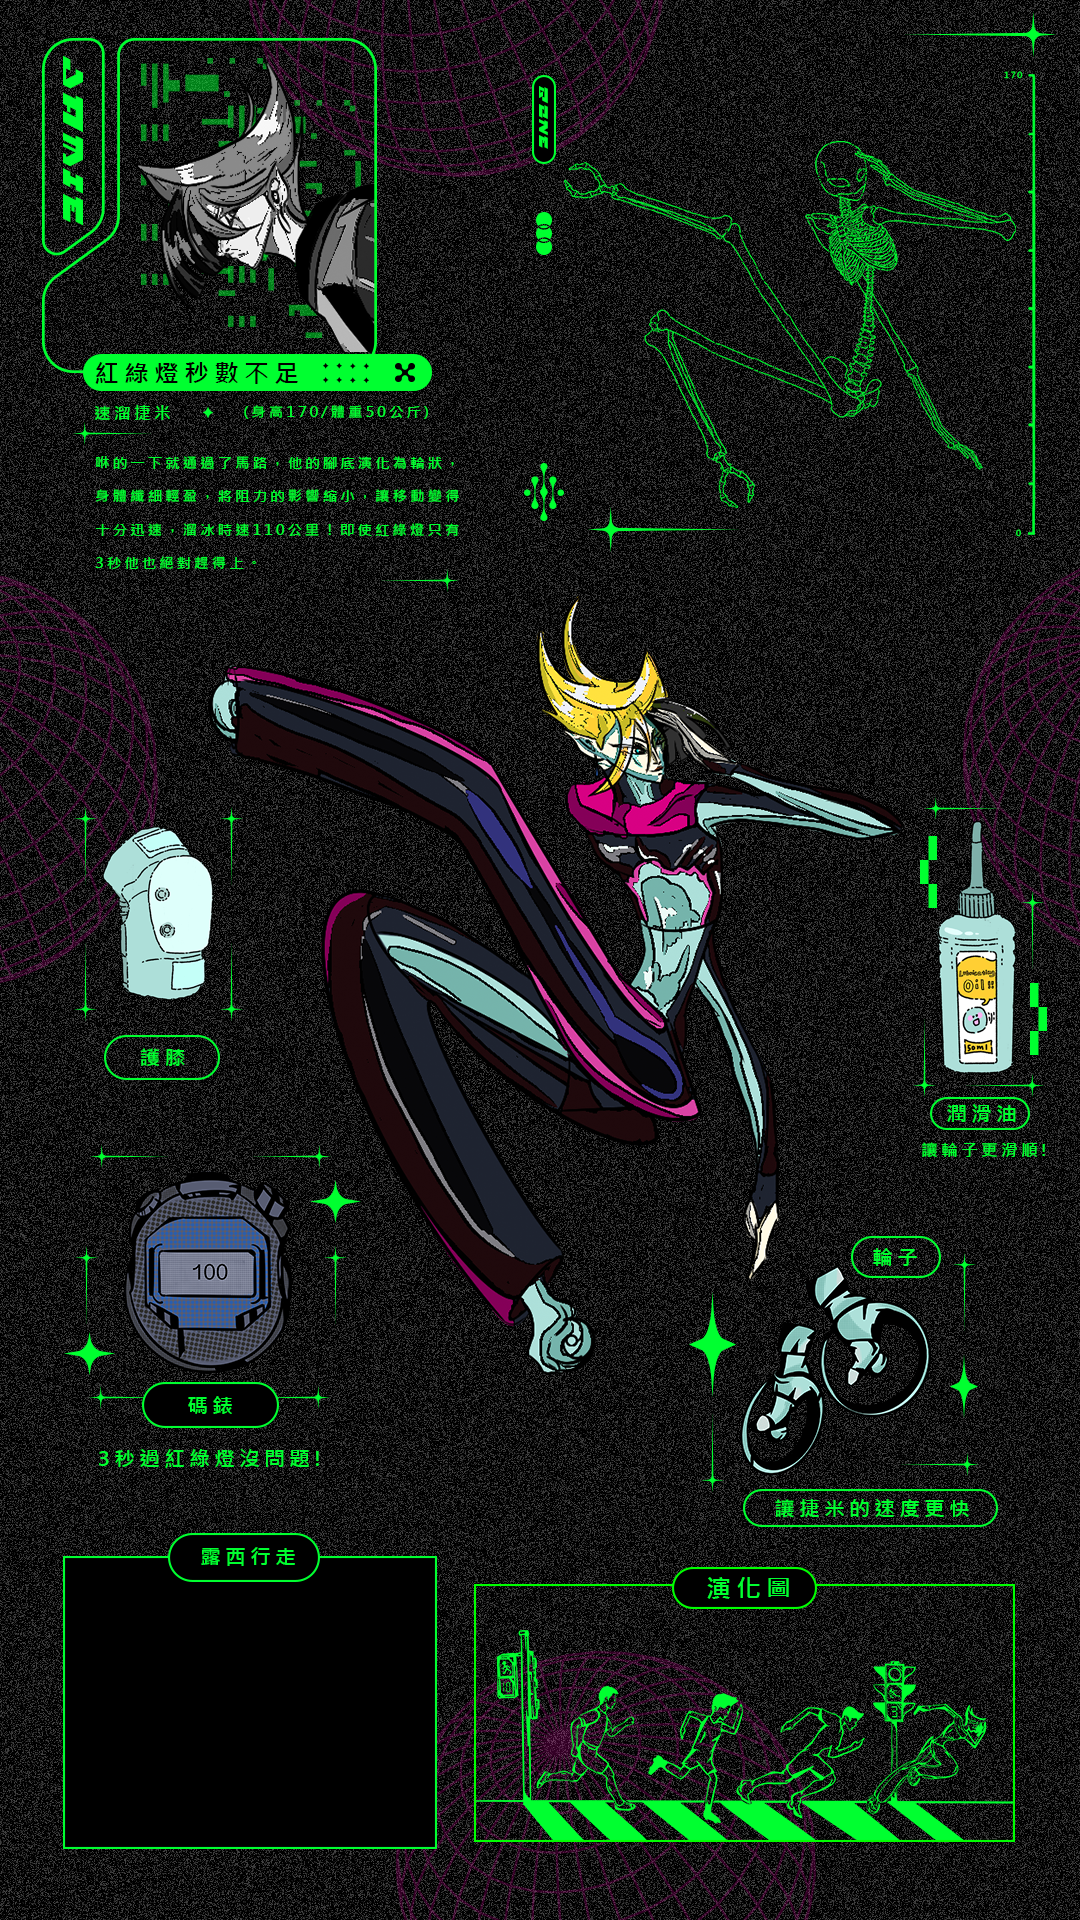
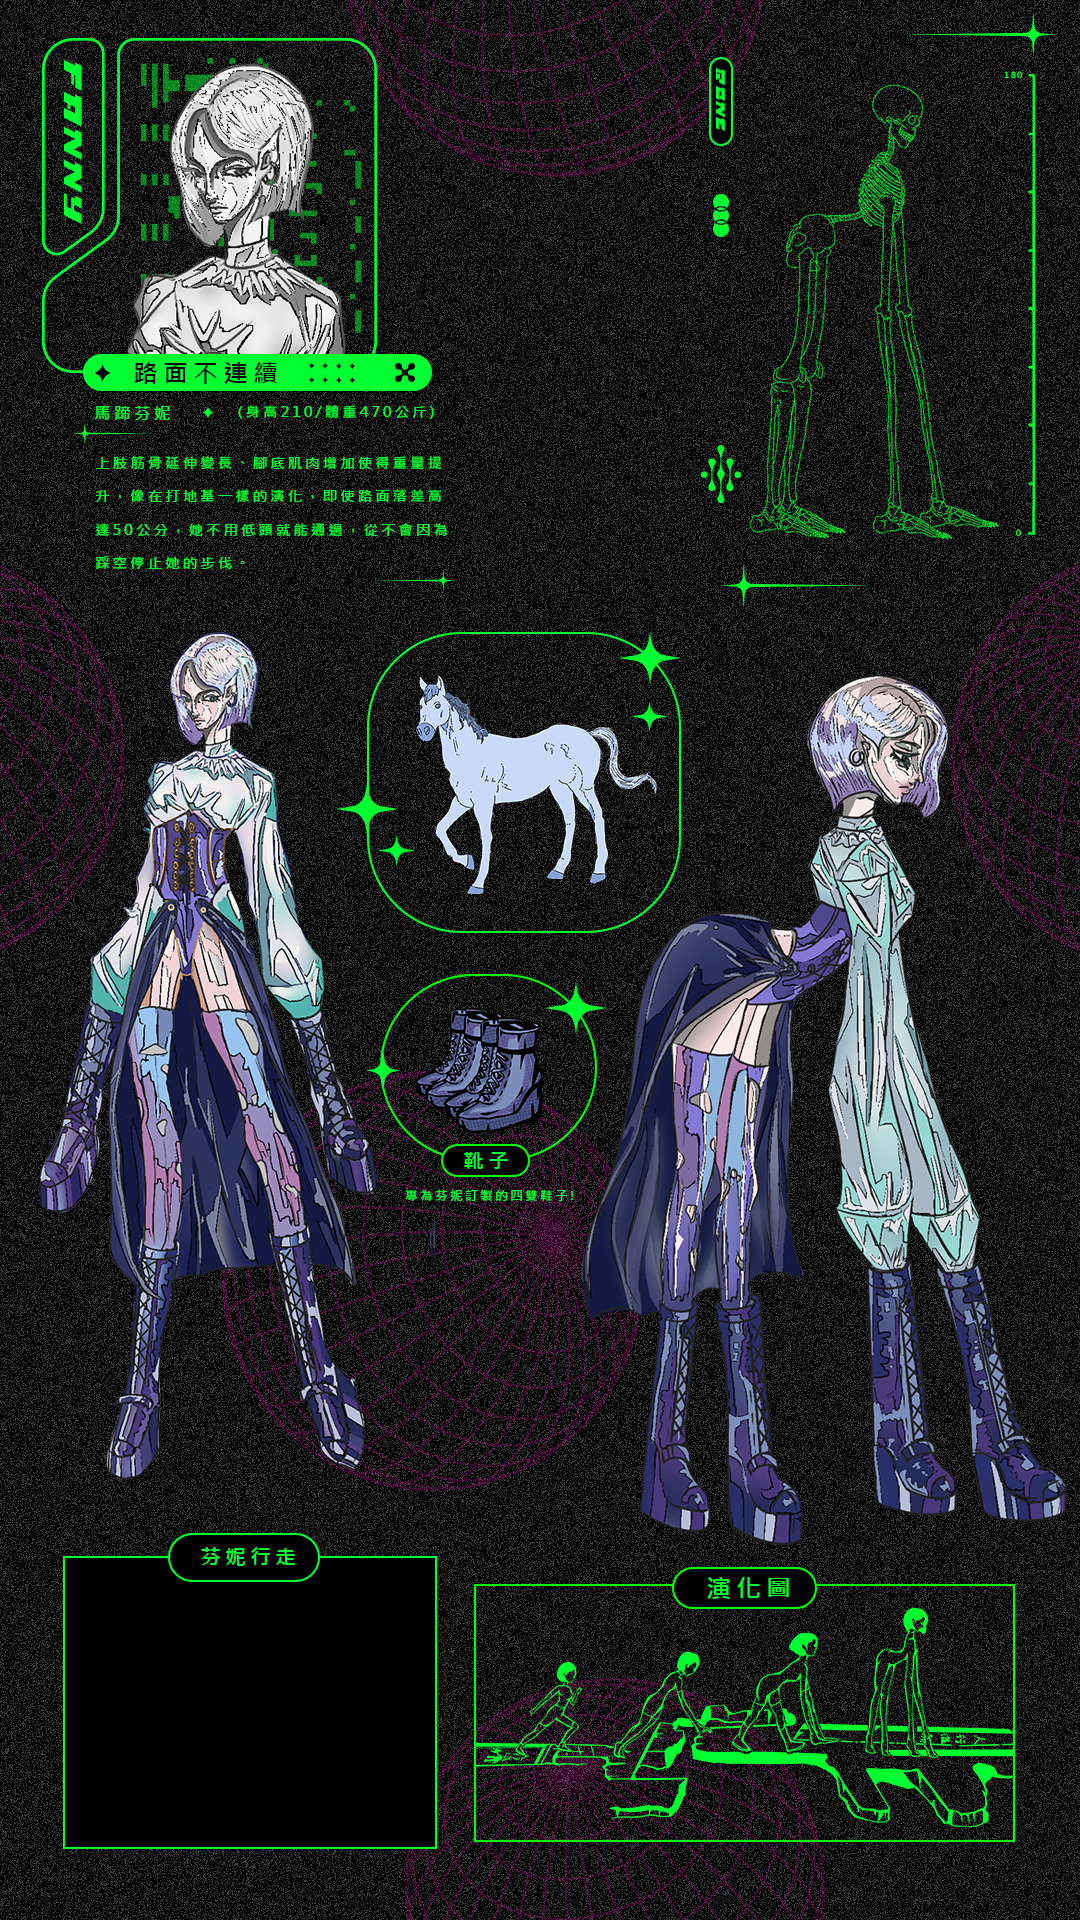
feat:新增角色頁 part4

diff --git a/src/app/layouts/header/header.component.html b/src/app/layouts/header/header.component.html
@@ -18,25 +18,25 @@
       <img class="menu-bottom" src="../../../assets/images/menu-bottom.png">
     </div>
     <div class="dropdown-menu-text sub-text">
-      <a href="/characters">四足露西</a>
+      <a href="/characters/1">四足露西</a>
     </div>
     <div class="dropdown-menu-text sub-text">
-      <a href="/characters">多工瑞克</a>
+      <a href="/characters/2">多工瑞克</a>
     </div>
     <div class="dropdown-menu-text sub-text">
-      <a href="/characters">馬蹄芬妮</a>
+      <a href="/characters/3">馬蹄芬妮</a>
     </div>
     <div class="dropdown-menu-text sub-text">
-      <a href="/characters">凝膠夫人</a>
+      <a href="/characters/4">凝膠夫人</a>
     </div>
     <div class="dropdown-menu-text sub-text">
-      <a href="/characters">極窄露娜</a>
+      <a href="/characters/5">極窄露娜</a>
     </div>
     <div class="dropdown-menu-text sub-text">
-      <a href="/characters">怪手克斯</a>
+      <a href="/characters/6">怪手克斯</a>
     </div>
     <div class="dropdown-menu-text sub-text">
-      <a href="/characters">速溜捷米</a>
+      <a href="/characters/7">速溜捷米</a>
     </div>
   </div>
 </div>

diff --git a/src/app/pages/characters/characters.component.ts b/src/app/pages/characters/characters.component.ts
@@ -1,4 +1,6 @@
-import { Component } from '@angular/core';
+import { Component,OnInit  } from '@angular/core';
+import { ActivatedRoute } from '@angular/router';
+
 
 @Component({
   selector: 'app-characters',
@@ -7,6 +9,20 @@ import { Component } from '@angular/core';
   templateUrl: './characters.component.html',
   styleUrl: './characters.component.scss'
 })
-export class CharactersComponent {
+export class CharactersComponent implements OnInit{
+  characterId: string | null = null;
+  imageUrl: string | null = null;
 
+  constructor(private route: ActivatedRoute) {}
+
+  ngOnInit() {
+    this.route.paramMap.subscribe(params => {
+      this.characterId = params.get('id');
+      this.updateImageUrl();
+    });
+  }
+
+  updateImageUrl() {
+    this.imageUrl = `../../../assets/images/characters${this.characterId}.png`;
+  }
 }

diff --git a/src/app/pages/characters/characters.component.html b/src/app/pages/characters/characters.component.html
@@ -1,3 +1,3 @@
 <div class=".characters characters-bgc">
-  <img class="characters-img" src="../../../assets/images/characters1.png" alt="Background Image">
+  <img class="characters-img" [src]="imageUrl" alt="Character Image">
 </div>

diff --git a/src/app/core/guards/routes.constant.ts b/src/app/core/guards/routes.constant.ts
@@ -2,5 +2,5 @@ export const STATIC_ROUTES = {
   /**首頁 */
   HOME: '',
   Order: 'order',
-  Characters: 'characters'
+  Characters: 'characters/:id'
 }
